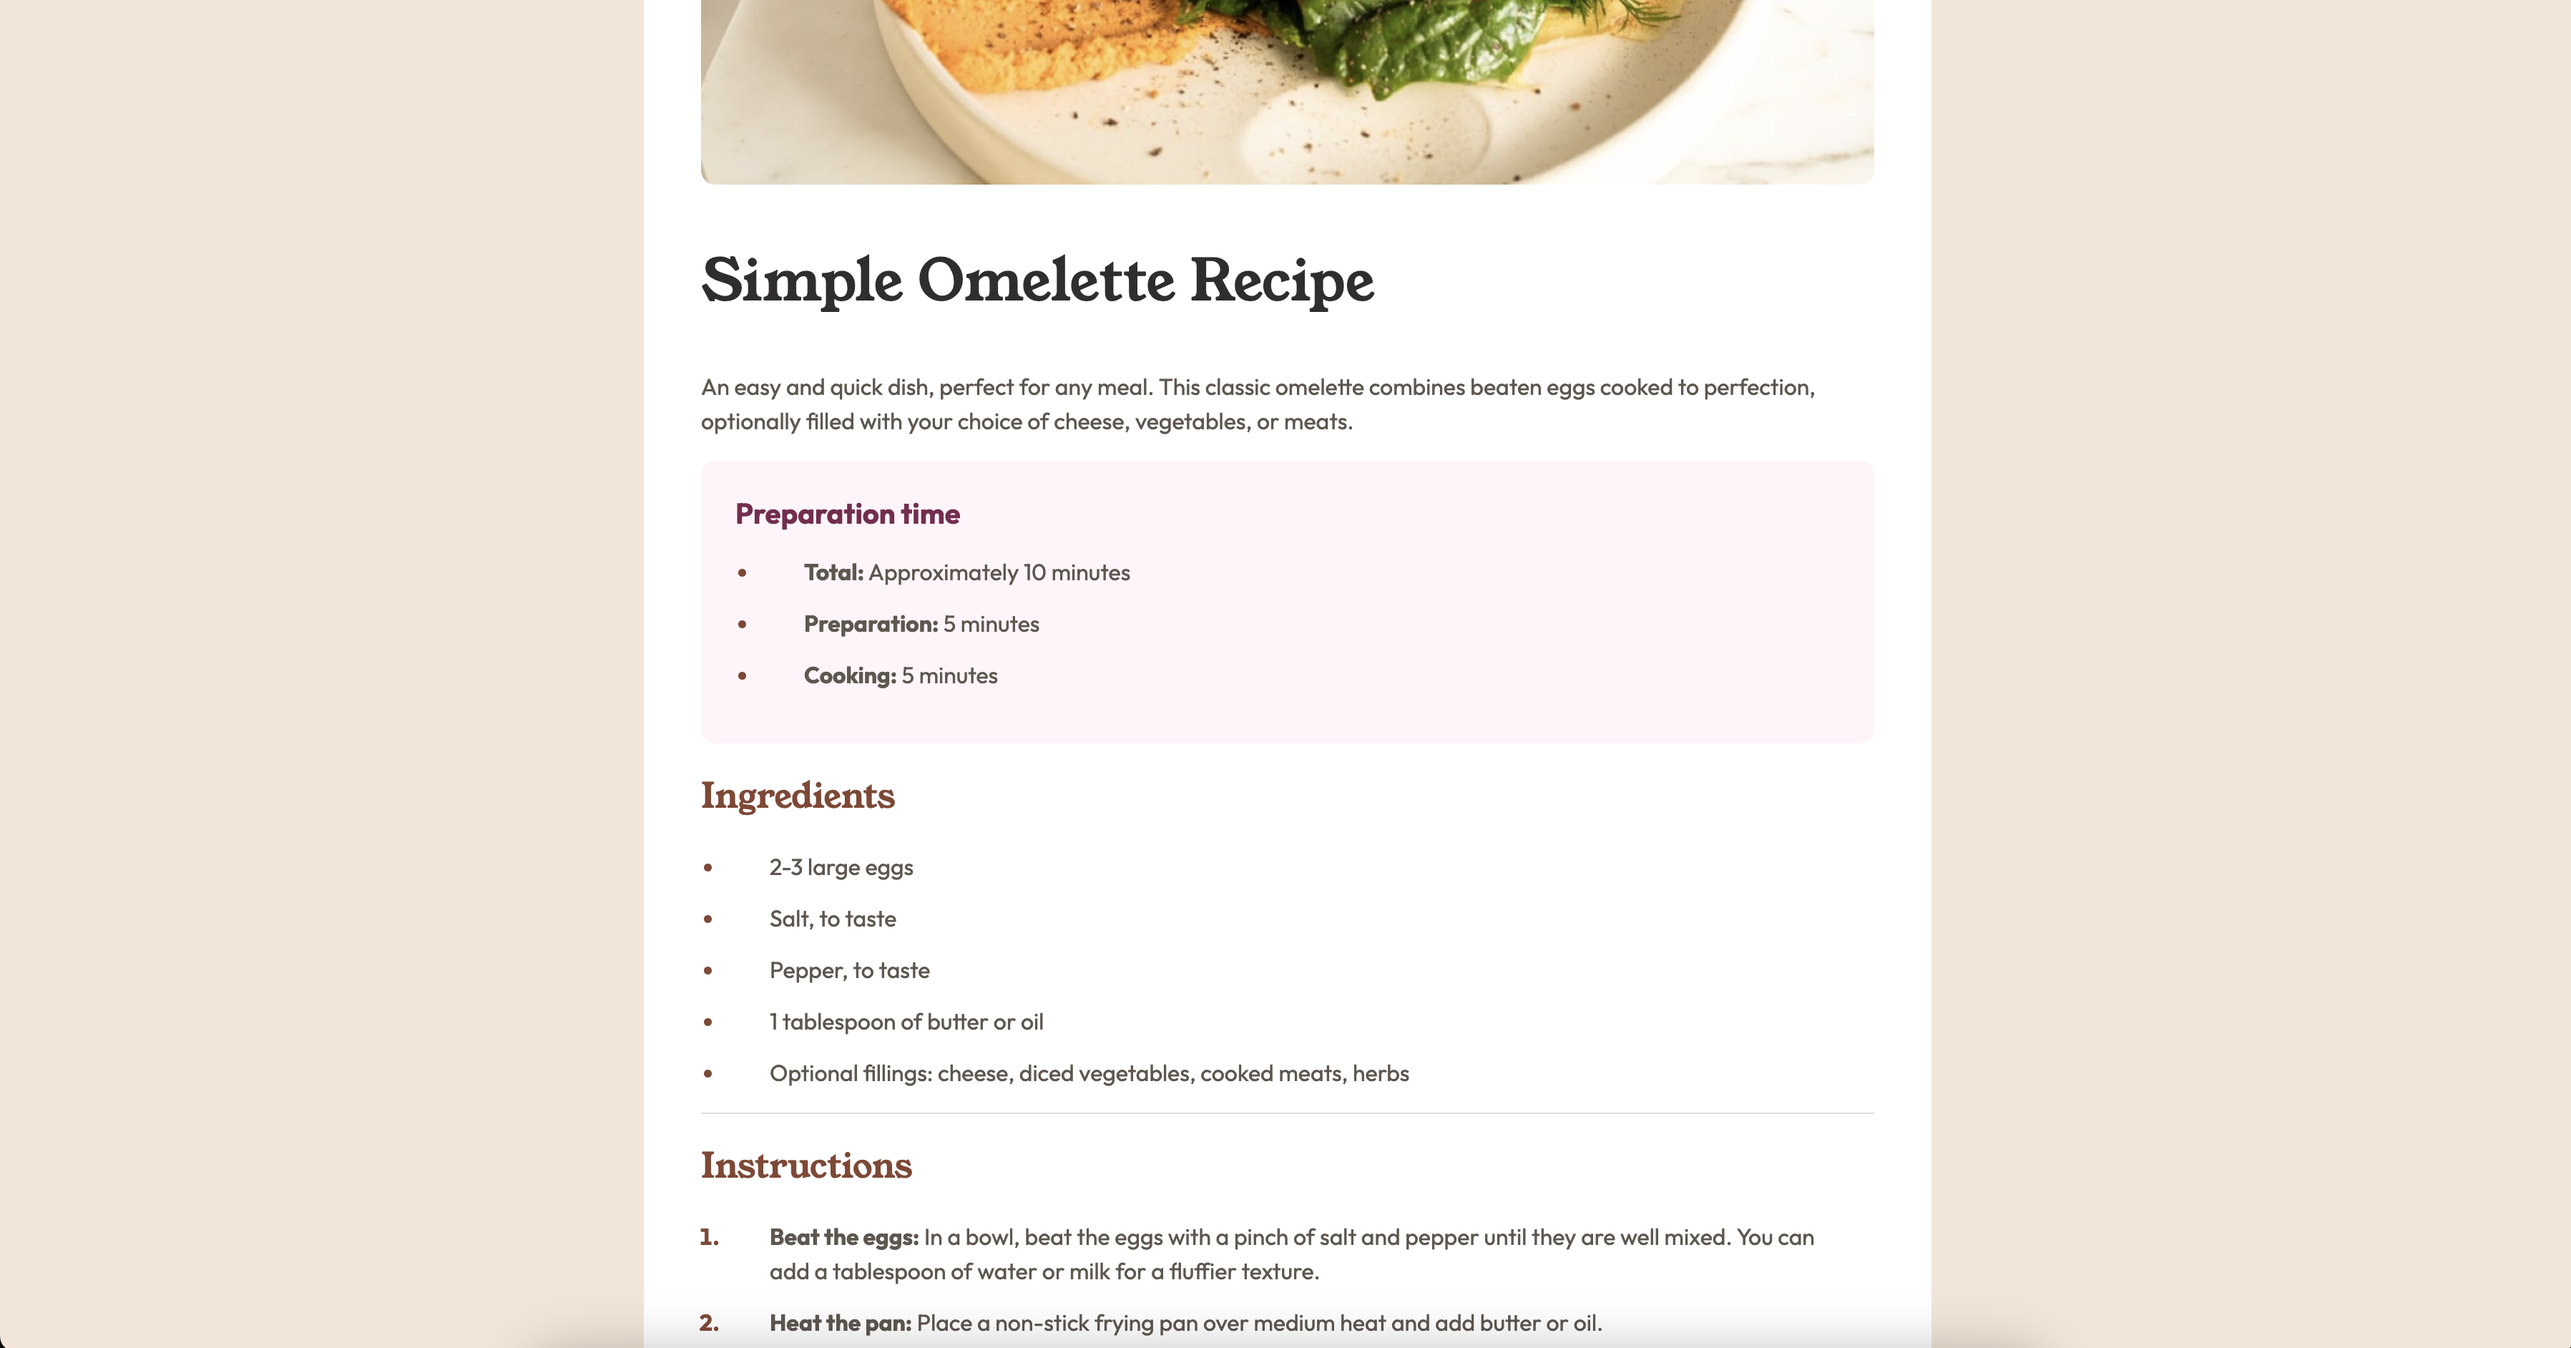
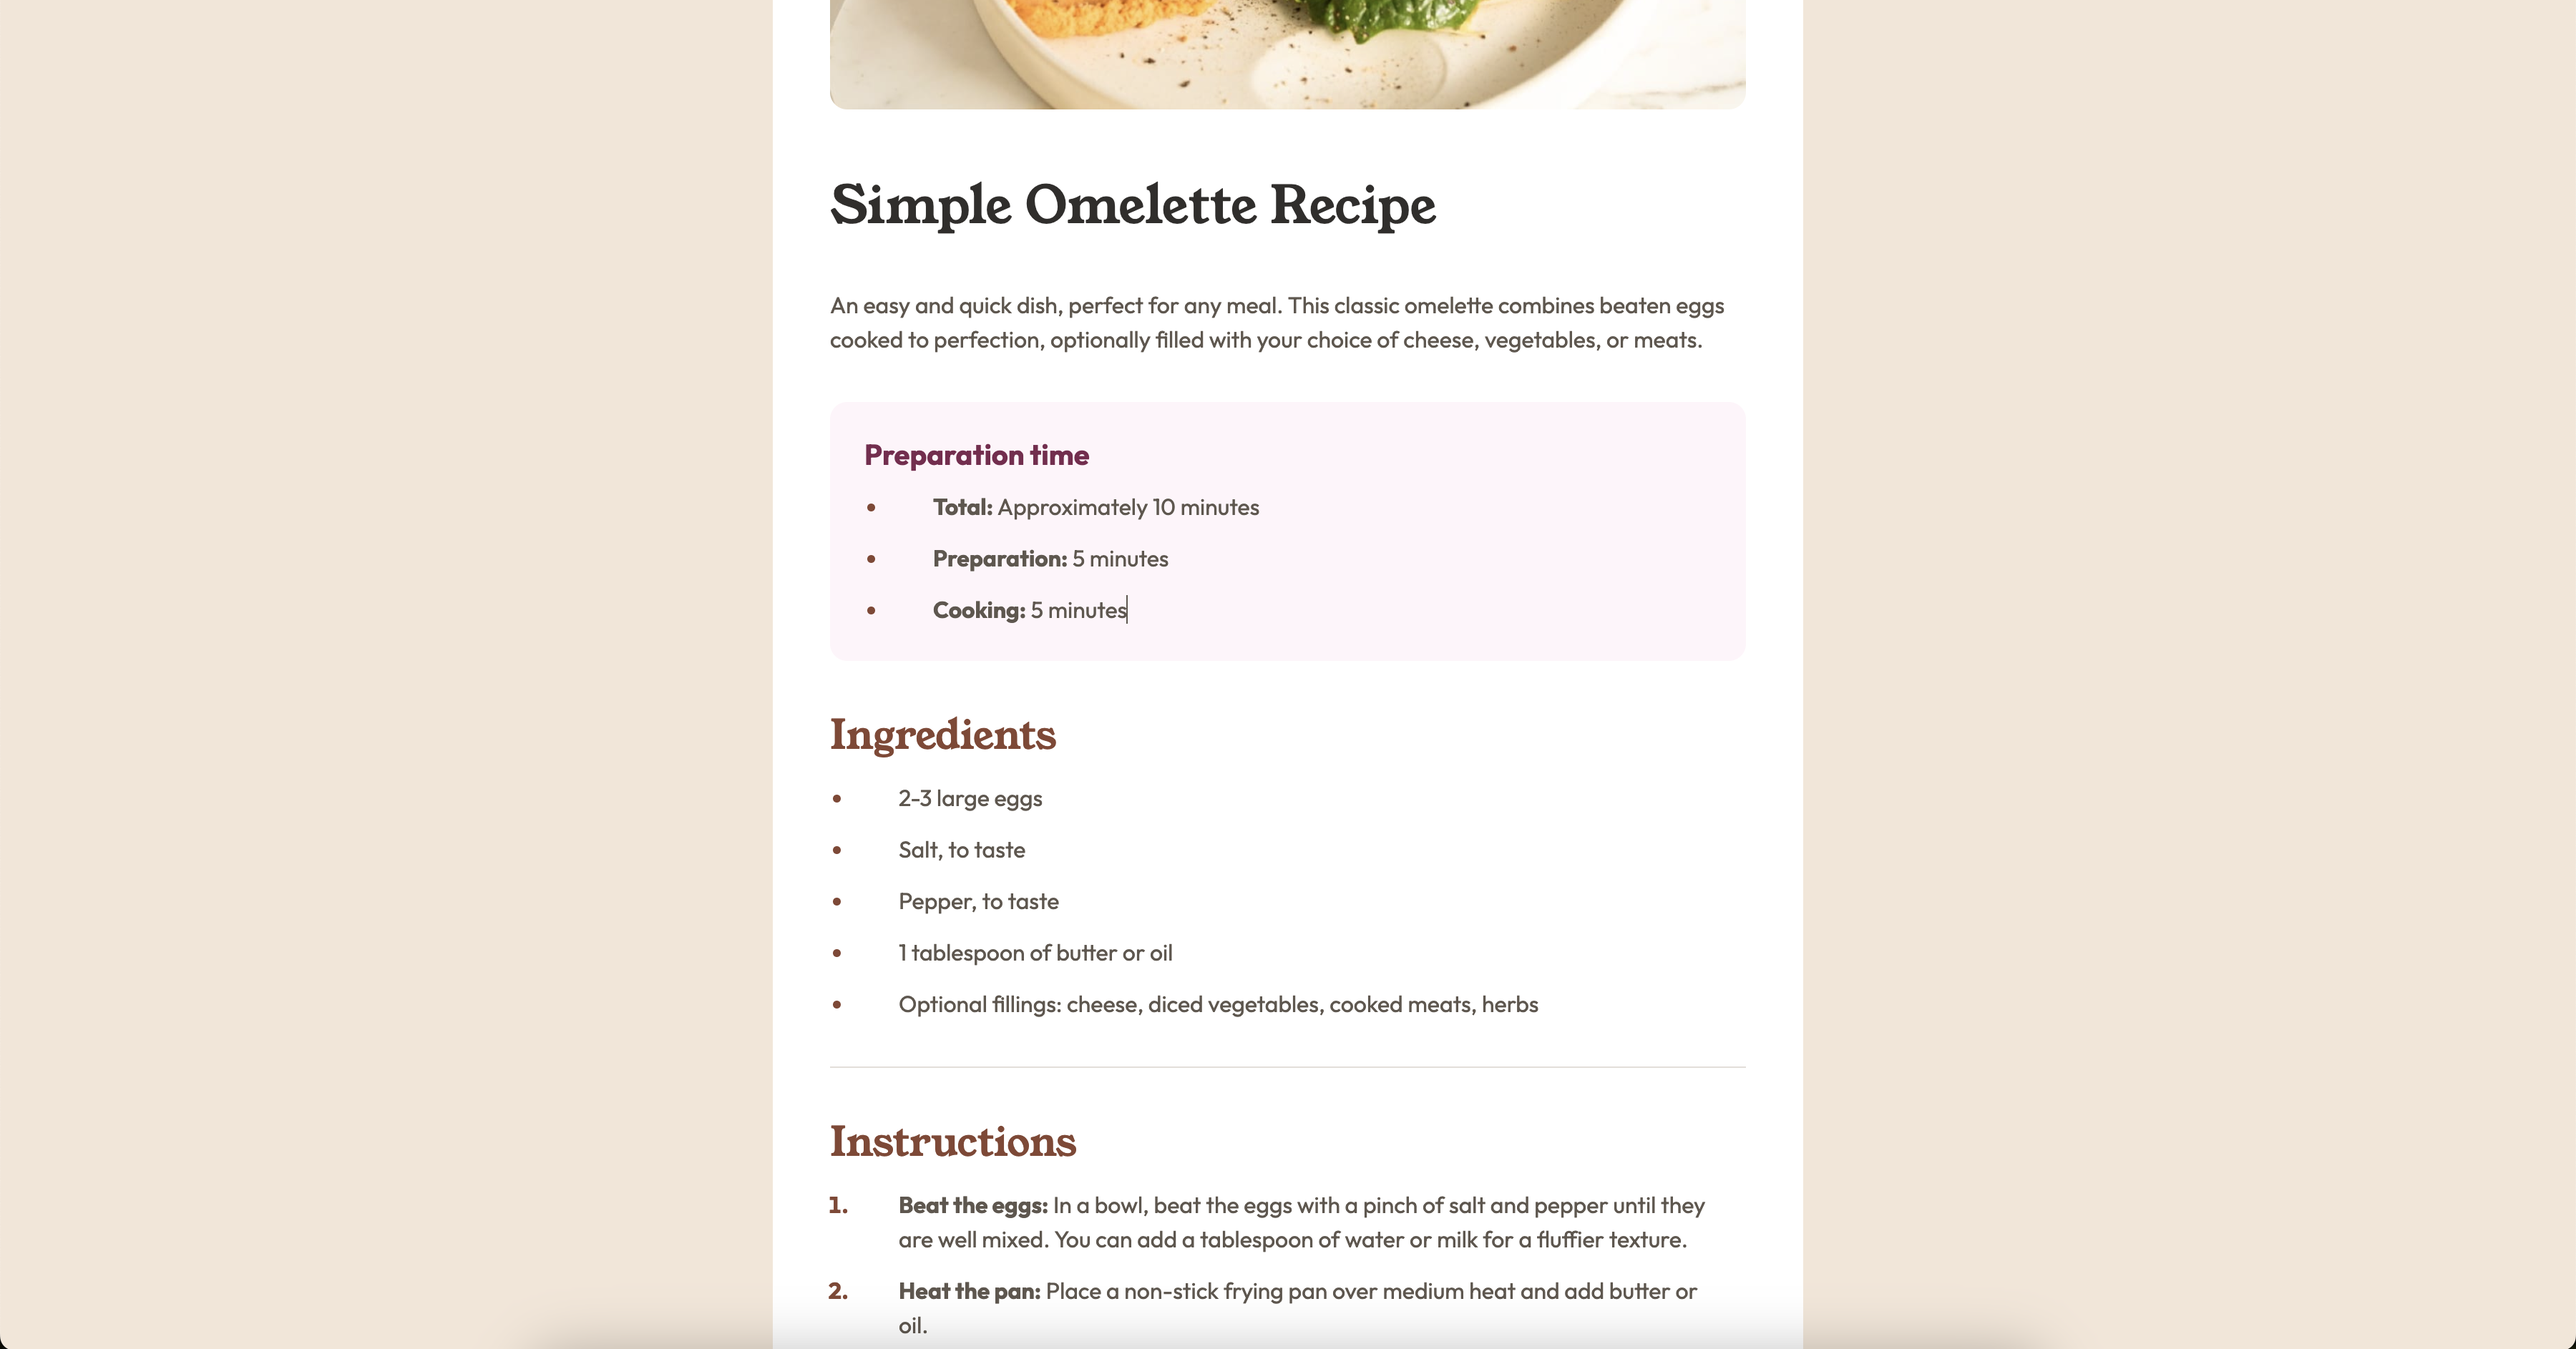
Set article width in em

Changed region(s): [[0.2493, 0.0, 0.7791, 1.0], [0.9972, 0.9851, 1.0, 1.0], [0.4051, 0.6773, 0.4363, 0.7081]]

diff --git a/index.css b/index.css
@@ -36,7 +36,8 @@ body {
 }
 
 article {
-  width: 50%;
+  width: 45em;
+  max-width: 90%;
   margin: 8em auto;
   padding: 2.5em;
 
@@ -46,7 +47,7 @@ article {
 
 @media screen and (max-width: 768px) {
   article {
-    width: 100%;
+    max-width: 100%;
     margin: 0;
     
     border-radius: 0;
